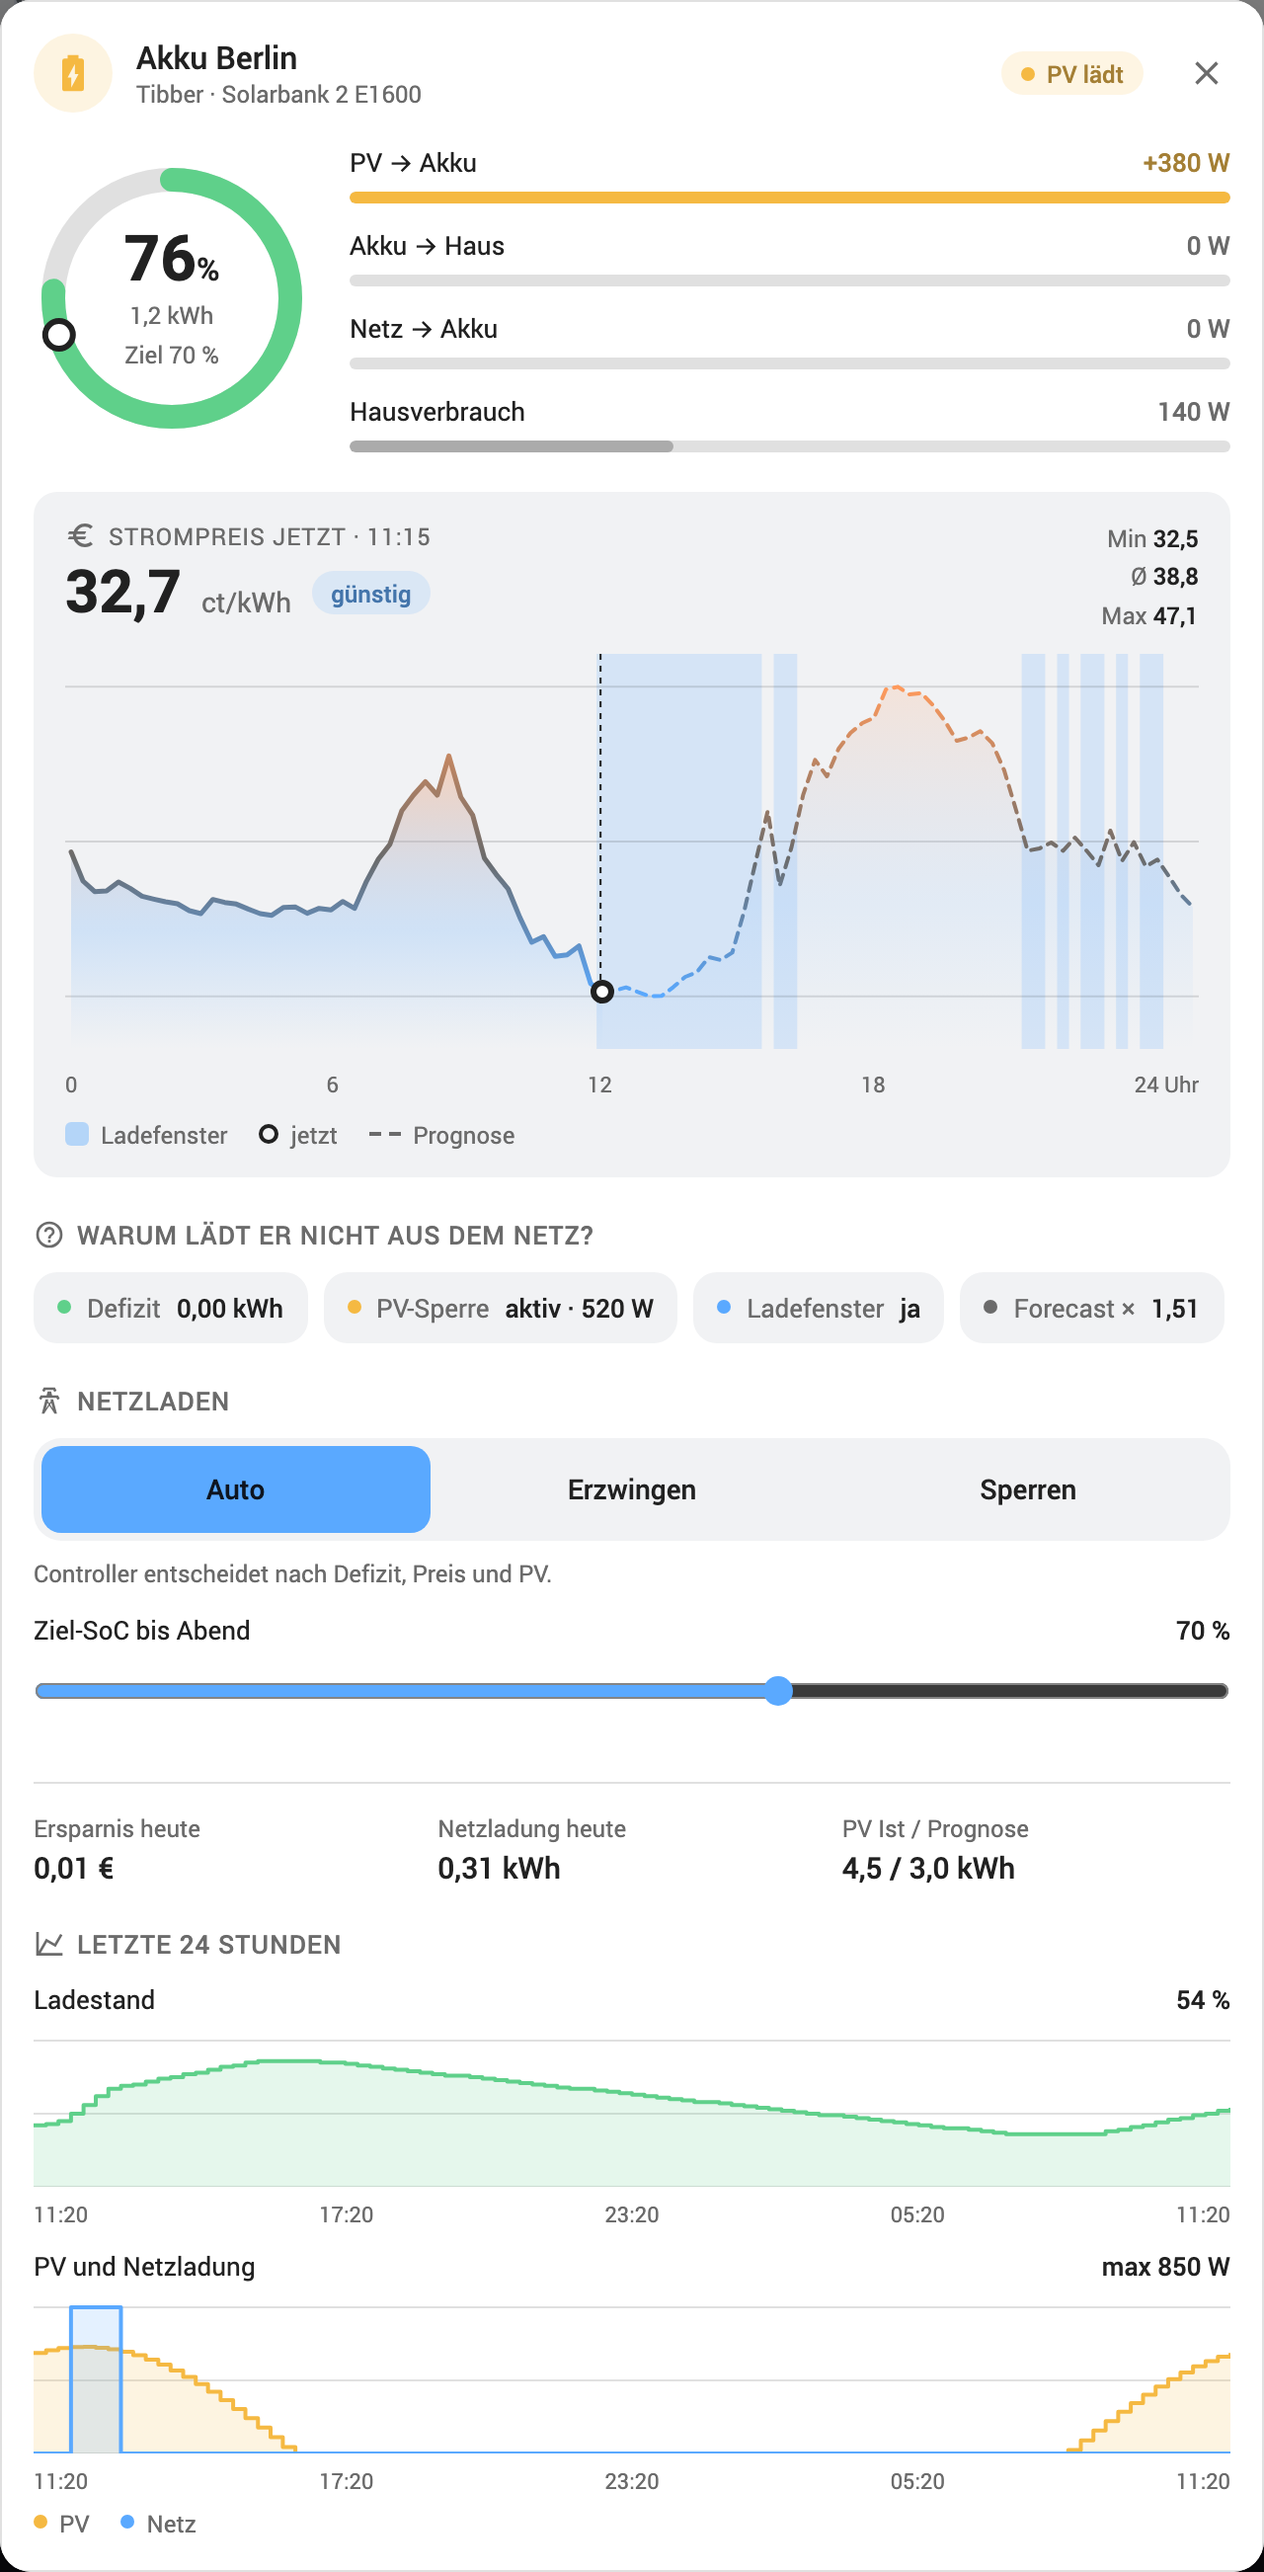
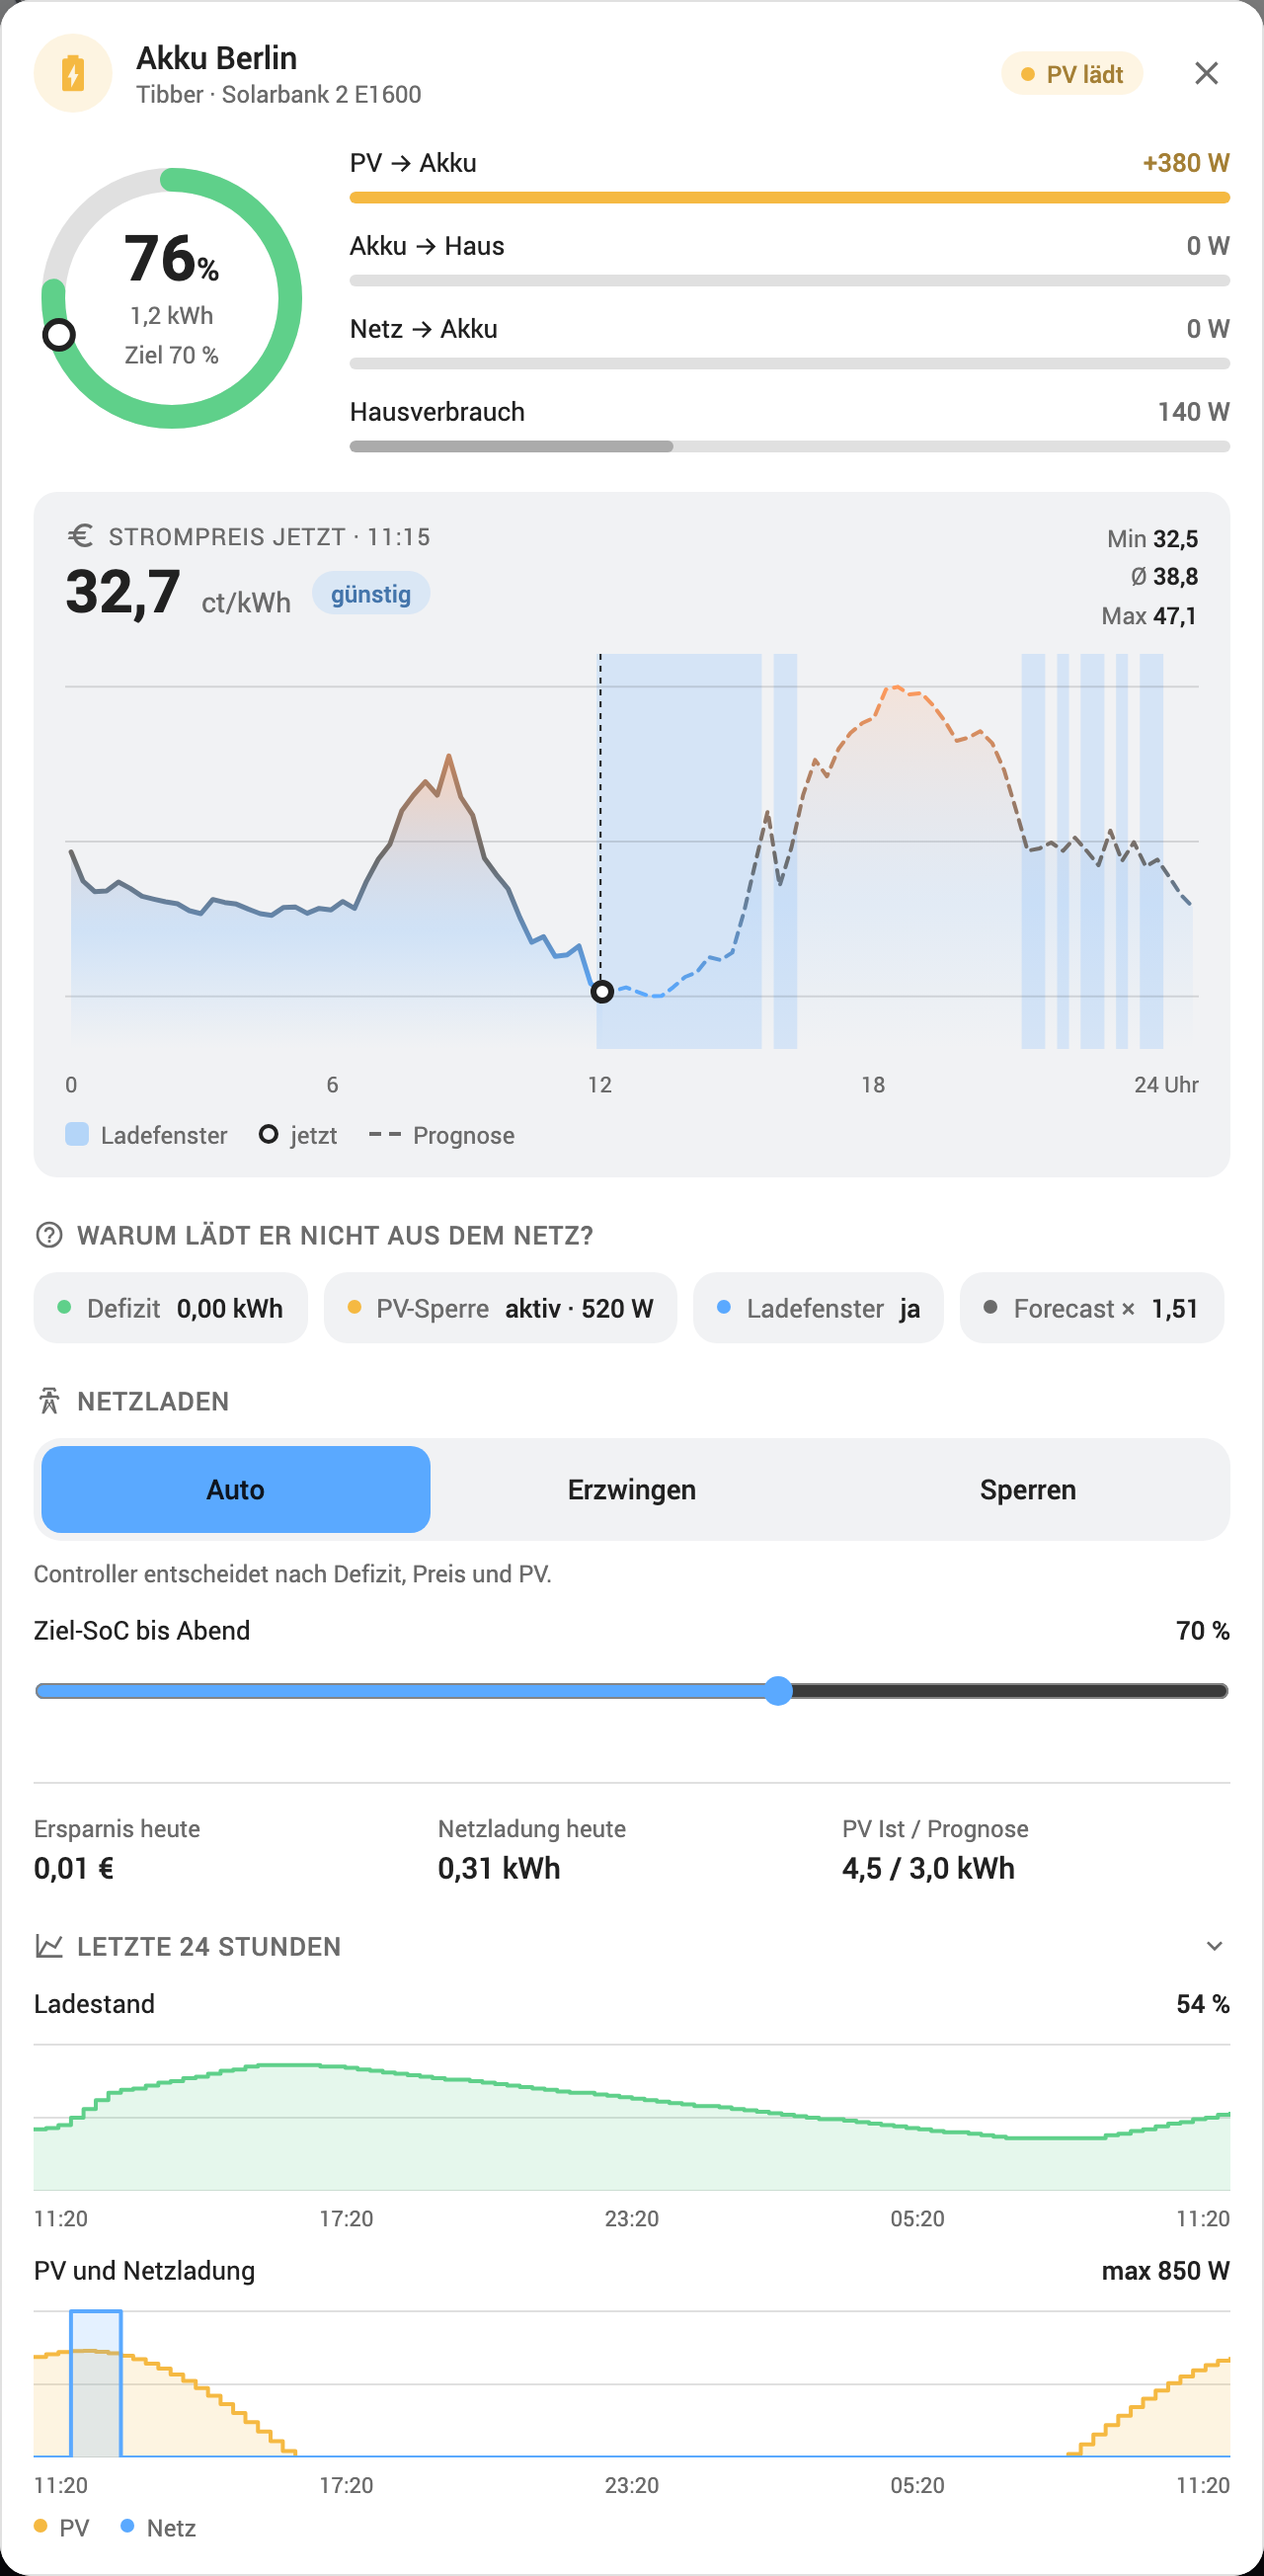
Collapsible 24 h history with history_collapsed option

diff --git a/src/sections.js b/src/sections.js
@@ -84,6 +84,14 @@ export const STYLE = `
   .panel { border-radius: 12px; padding: 14px 16px; background: var(--tb-soft); display: flex; flex-direction: column; gap: 10px; }
   .price-head { display: flex; align-items: flex-start; justify-content: space-between; gap: 12px; }
   .section-title .icon, .kicker .icon { width: 16px; height: 16px; }
+  .section-title.fold { all: unset; box-sizing: border-box; display: flex; align-items: center; gap: 6px; width: 100%; min-height: 44px;
+                        margin: -12px 0 -2px; cursor: pointer; user-select: none; font-size: 13px; font-weight: 500; text-transform: uppercase;
+                        letter-spacing: .04em; color: var(--secondary-text-color); border-radius: 8px; }
+  .section-title.fold:hover { color: var(--primary-text-color); }
+  .section-title.fold:focus-visible { outline: 2px solid var(--primary-color, #03a9f4); outline-offset: 2px; }
+  .section-title.fold .chevron { margin-left: auto; transition: transform .2s ease; }
+  .section-title.fold.closed { margin-bottom: -12px; }
+  .section-title.fold.closed .chevron { transform: rotate(-90deg); }
   .kicker { display: flex; align-items: center; gap: 6px; font-size: 12px; color: var(--secondary-text-color); text-transform: uppercase; letter-spacing: .04em; }
   .price-now { display: flex; align-items: baseline; flex-wrap: wrap; gap: 4px 10px; margin-top: 4px; }
   .price-now .big { font-size: 30px; font-weight: 600; line-height: 1.1; }
@@ -490,19 +498,21 @@ export const history = (v) => {
   const h = v.history;
   if (!h) return "";
   const { t, lang } = v;
-  if (h.loading && !h.soc)
-    return `<div>${title("chart", t("history"))}<div class="empty">${esc(t("loading_history"))}</div></div>`;
+  // The heading is a button that folds the section; closed, nothing is fetched.
+  const head = `<button type="button" class="section-title fold${h.open ? "" : " closed"}" data-fold aria-expanded="${h.open}">
+      ${svgIcon(ICONS.chart)}<span>${esc(t("history"))}</span>${svgIcon(ICONS.chevron, "icon chevron")}</button>`;
+  if (!h.open) return `<div>${head}</div>`;
+  if (h.loading && !h.soc) return `<div>${head}<div class="empty">${esc(t("loading_history"))}</div></div>`;
   const hasSoc = h.soc?.length > 0;
   const hasPower = h.pv?.length > 0 || h.grid?.length > 0;
-  if (!hasSoc && !hasPower)
-    return `<div>${title("chart", t("history"))}<div class="empty">${esc(t("no_history"))}</div></div>`;
+  if (!hasSoc && !hasPower) return `<div>${head}<div class="empty">${esc(t("no_history"))}</div></div>`;
   const pmax = Math.max(100, ...(h.pv || []).map((p) => p.v), ...(h.grid || []).map((p) => p.v));
   const ticks = [0, 6, 12, 18, 24].map((i) => fmtTime(h.from + i * 3600000));
   const axis = `<div class="axis" aria-hidden="true">${ticks.map((x) => `<span>${x}</span>`).join("")}</div>`;
   const last = (arr) => arr?.[arr.length - 1]?.v;
   return `
     <div>
-      ${title("chart", t("history"))}
+      ${head}
       ${
         hasSoc
           ? `<div class="hist">

diff --git a/src/tibber-battery-card.js b/src/tibber-battery-card.js
@@ -132,6 +132,7 @@ export class TibberBatteryCard extends HTMLElement {
       this._hist?.fetchedAt,
       this._hist?.loading,
       this._expanded,
+      this._histOpen,
       ...parts,
     ].join(";");
   }
@@ -159,7 +160,7 @@ export class TibberBatteryCard extends HTMLElement {
       dragTarget: this._dragTarget,
       popupButton: !!config.popup && !config._detail,
       closeButton: !!config._detail,
-      history: config._detail || config.show_history ? this._historyView(now) : undefined,
+      history: config._detail || config.show_history ? this._historySection(now) : undefined,
       inline: config.popup === false,
       expanded: this._expanded,
       has: (id) => !!stateOf(hass, id),
@@ -221,7 +222,13 @@ export class TibberBatteryCard extends HTMLElement {
     this._lastView = v;
     const html = this._content(v);
     const focus = this.shadowRoot.activeElement;
-    const focusKey = focus?.dataset?.mode ? `[data-mode="${focus.dataset.mode}"]` : focus?.id ? `#${focus.id}` : "";
+    const focusKey = focus?.hasAttribute?.("data-fold")
+      ? "[data-fold]"
+      : focus?.dataset?.mode
+        ? `[data-mode="${focus.dataset.mode}"]`
+        : focus?.id
+          ? `#${focus.id}`
+          : "";
     this.shadowRoot.innerHTML = `<style>${STYLE}</style><ha-card class="${this._config._detail ? "detail" : ""}">${html}</ha-card>`;
     if (this._dialog) this._dialog.hass = this._hass;
     if (focusKey) this.shadowRoot.querySelector(focusKey)?.focus();
@@ -247,6 +254,14 @@ export class TibberBatteryCard extends HTMLElement {
       .filter(Boolean)
       .join("");
     return `${head}<div class="content"${head || !withHeader ? "" : ' style="padding-top:16px"'}>${body}</div>`;
+  }
+
+  // The history section: open or folded (history_collapsed sets the start, the heading toggles it).
+  _historySection(now) {
+    const open = this._histOpen ?? !this._config.history_collapsed;
+    if (!open) return { open: false };
+    const h = this._historyView(now);
+    return h ? { ...h, open: true } : undefined;
   }
 
   // 24 h history for the detail view, fetched on open and refreshed every 5 minutes.
@@ -303,6 +318,11 @@ export class TibberBatteryCard extends HTMLElement {
       const open = e.target.closest?.("[data-open]");
       if (open) {
         this._openPopup(open);
+        return;
+      }
+      if (e.target.closest?.("[data-fold]")) {
+        this._histOpen = !(this._histOpen ?? !this._config.history_collapsed);
+        this._render(true);
         return;
       }
       if (e.target.closest?.("[data-toggle]")) {

diff --git a/src/editor.js b/src/editor.js
@@ -39,6 +39,7 @@ const LABELS = {
     animations: "Animationen",
     popup: "Detailansicht als Popup",
     show_history: "24-h-Verlauf auch in der Karte",
+    history_collapsed: "24-h-Verlauf anfangs eingeklappt",
     language: "Sprache",
     lang_auto: "Automatisch",
     mode_auto: "Option für Auto",
@@ -94,6 +95,7 @@ const LABELS = {
     animations: "Animations",
     popup: "Detail view as a popup",
     show_history: "24 h history in the card too",
+    history_collapsed: "24 h history collapsed at first",
     language: "Language",
     lang_auto: "Automatic",
     mode_auto: "Option for Auto",
@@ -212,6 +214,7 @@ export const editorSchema = (lang, { mini = false } = {}) => {
             { name: "animations", selector: { boolean: {} } },
             { name: "popup", selector: { boolean: {} } },
             { name: "show_history", selector: { boolean: {} } },
+            { name: "history_collapsed", selector: { boolean: {} } },
           ],
         },
         {

diff --git a/src/shared.js b/src/shared.js
@@ -10,6 +10,7 @@ export const DEFAULTS = {
   animations: true,
   popup: false,
   show_history: false,
+  history_collapsed: false,
   show_tomorrow: false,
   cheap_slots: 24,
   window_horizon_slots: 48,

diff --git a/README.md b/README.md
@@ -216,6 +216,7 @@ pv_forecast_today_entity: sensor.energy_production_today
 | `sections` | Reihenfolge / Auswahl: `header`, `battery`, `price`, `reasons`, `controls`, `footer` | alle |
 | `animations` | Flussanimation (respektiert `prefers-reduced-motion`) | `true` |
 | `show_history` | 24-h-Verlauf (Ladestand, PV und Netzladung) auch in der normalen Karte, unter der Tagesbilanz | `false` |
+| `history_collapsed` | 24-h-Verlauf startet eingeklappt; ein Klick auf die Überschrift klappt ihn auf (erst dann werden die Daten geladen) | `false` |
 | `popup` | Detailansicht als Dialog (Hauptkarte: Button im Kopf; Mini-Karte: `false` = an Ort und Stelle aufklappen) | Hauptkarte `false`, Mini-Karte `true` |
 | `language` | `de` / `en` | Sprache von Home Assistant |
 
@@ -230,7 +231,8 @@ Karte mit großem Preisdiagramm und dem **Verlauf der letzten 24 Stunden** (Lade
 Home-Assistant-Historie). Mit `popup: false` klappt die Mini-Karte stattdessen die ganze Karte an Ort und Stelle auf.
 
 Die Hauptkarte bekommt mit `popup: true` denselben Detail-Button im Kopf. Mit `show_history: true` zeigt sie die
-beiden Verlaufsgrafiken auch ohne Popup direkt unter der Tagesbilanz.
+beiden Verlaufsgrafiken auch ohne Popup direkt unter der Tagesbilanz. Die Überschrift „Letzte 24 Stunden“ klappt den
+Bereich auf und zu; mit `history_collapsed: true` startet er eingeklappt (in der Karte und im Popup).
 
 ```yaml
 type: custom:tibber-battery-mini-card
@@ -297,7 +299,7 @@ soc_entity: sensor.my_battery_soc
 **Mini card:** `custom:tibber-battery-mini-card` takes the same options and shows one row (ring, name, status, price,
 PV, target); its button opens the detail dialog with a large price chart and the last 24 hours of SoC, PV and grid
 charging (`popup: false` expands the full card in place instead). `popup: true` adds the same button to the main card; `show_history: true` shows the two history charts in the
-card itself.
+card itself; its heading folds the section, and `history_collapsed: true` starts it folded.
 
 Mode option names are configurable through `mode_options` (`{auto: auto, force: force, block: block}` for English helpers).
 

diff --git a/CHANGELOG.md b/CHANGELOG.md
@@ -4,6 +4,8 @@
 
 - `show_history` (switch in the editor): the 24 h charts of the detail view (state of charge, PV and grid charging)
   also in the normal card, below the daily totals
+- The "Last 24 hours" heading folds the section; `history_collapsed` (checkbox in the editor) starts it folded,
+  and the history is only fetched once it is opened
 - Icons in front of the section headings (price, reasons, grid charging, history), as in the Proxmox card
 
 ## 0.2.0 (2026-11-14)
